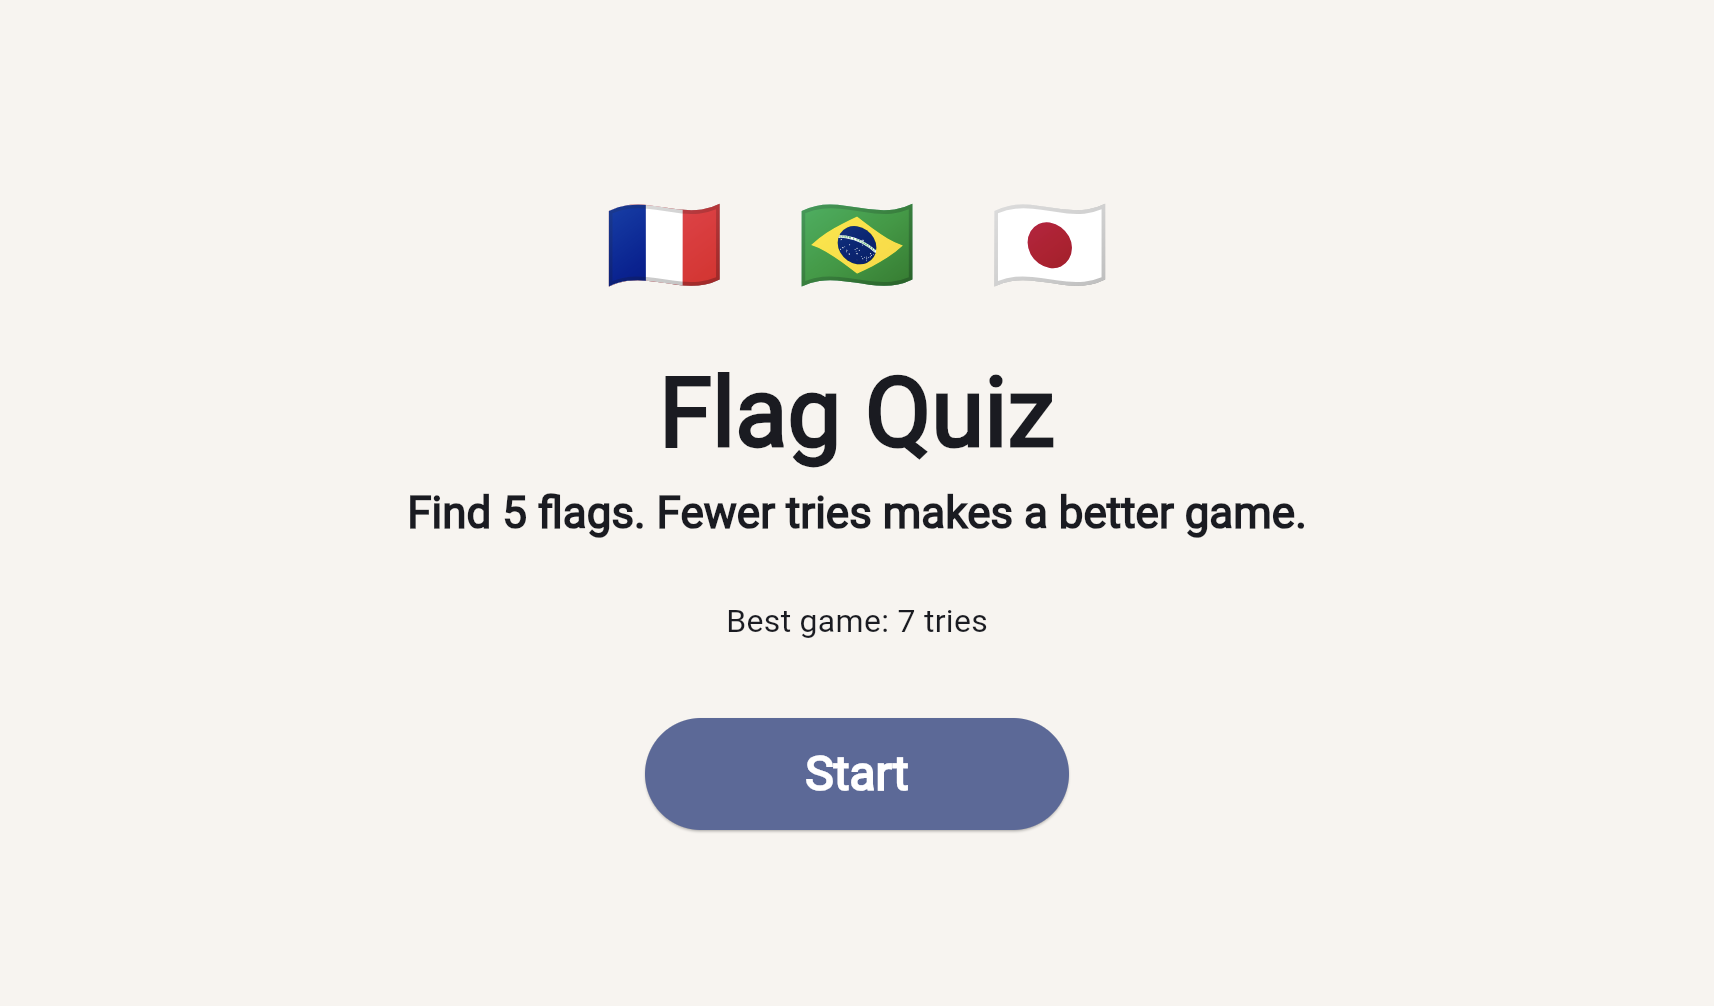
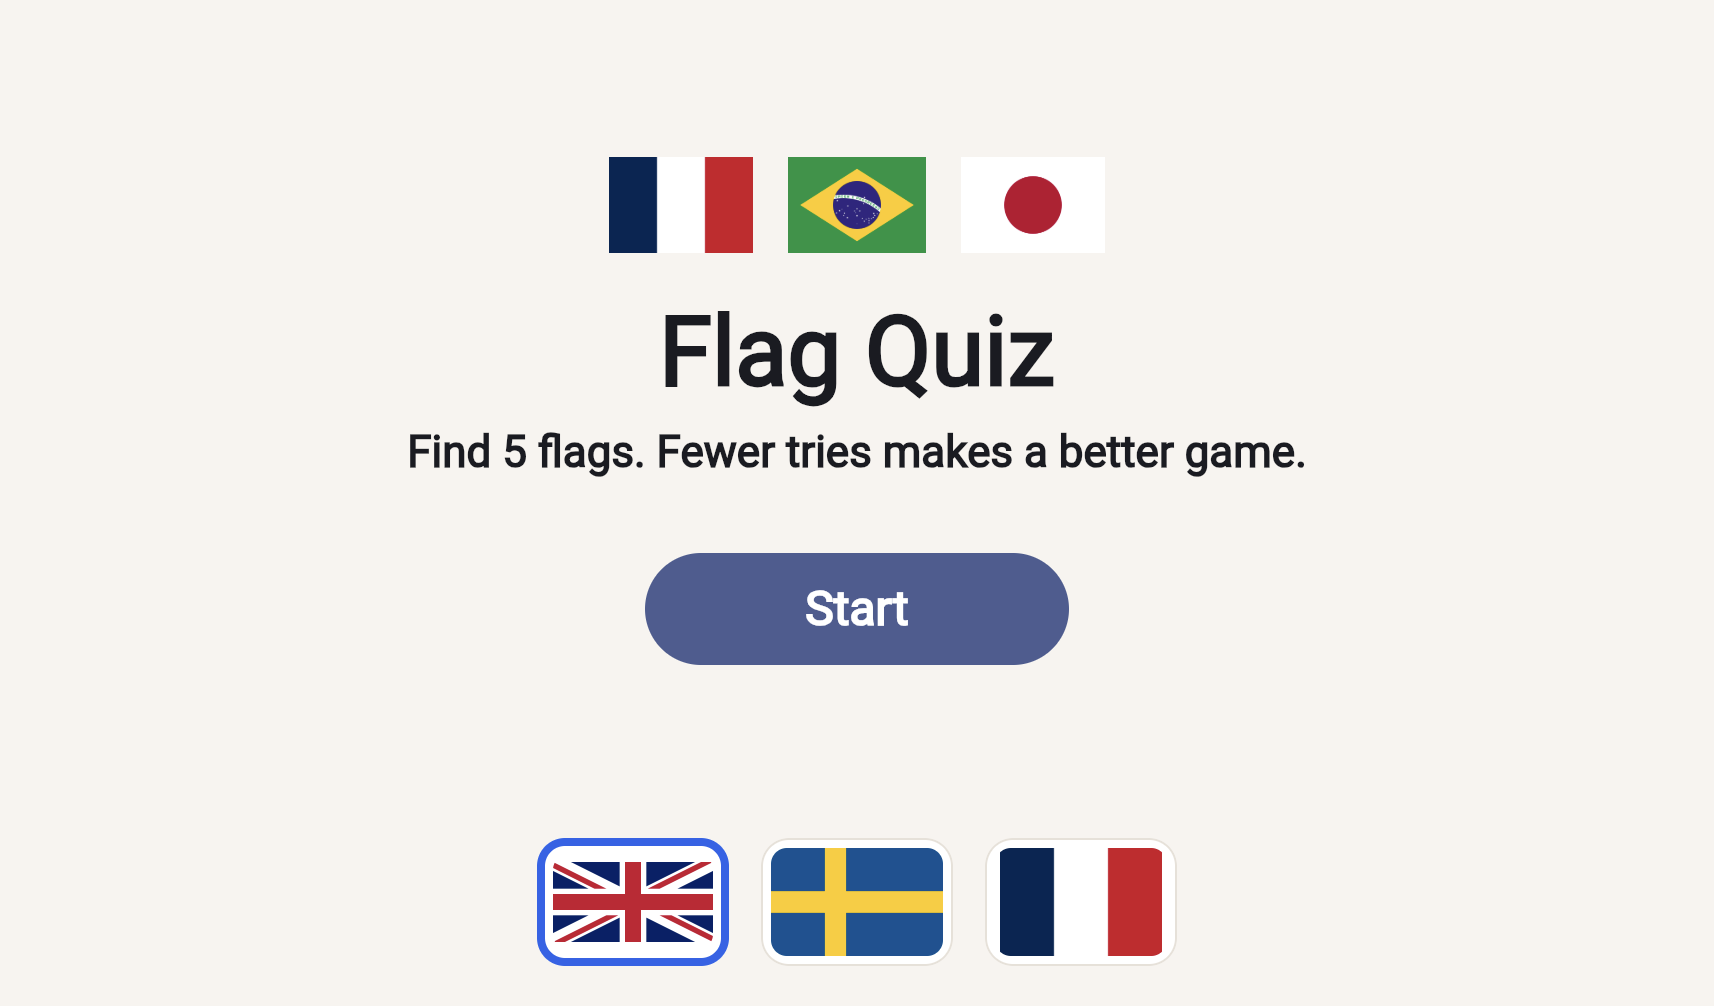
Refresh the home screenshot and drop the broken round picture.

diff --git a/README.md b/README.md
@@ -8,10 +8,6 @@ The menu has flag buttons for English, Swedish, and French. Country names and th
 
 ![Flag Quiz home](screenshots/home.png)
 
-A wrong flag stays on screen long enough to see the right one, outlined in green.
-
-![A round in progress](screenshots/play.png)
-
 ![Well done](screenshots/well-done.png)
 
 ## Score
